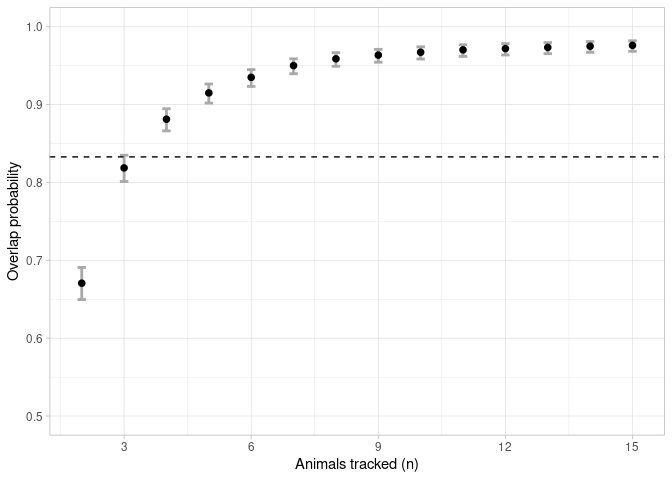
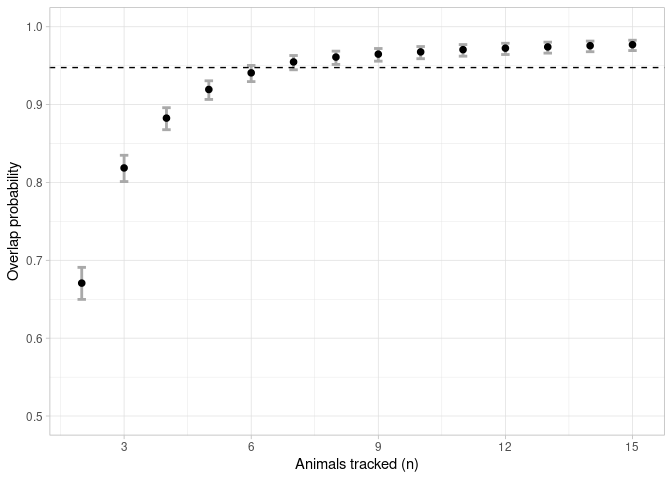
Ver 2.3.0 Fix 1

diff --git a/README.md b/README.md
@@ -189,9 +189,9 @@ overlap <- boot_overlap(ud_matrix, R = 2000, method = "PHR")
 
 #### 2-3. Find the minimum sample size required to estimate the general distribution
 
-As described in the main text, an asymptote was considered once the mean
-overlap probability exceeded 95% of the estimated horizontal asymptote.
-The sample size linked to this value was deemed to be the minimum sample
+An asymptote could be considered once the mean overlap probability
+exceeded 95% of the estimated horizontal asymptote (Shimada et al 2021).
+The sample size linked to this value is deemed to be the minimum sample
 size required to represent the general distribution of the group.
 
 ``` r
